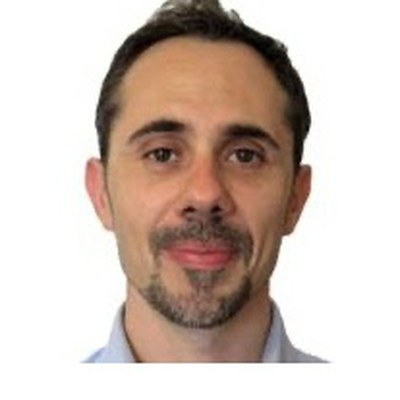
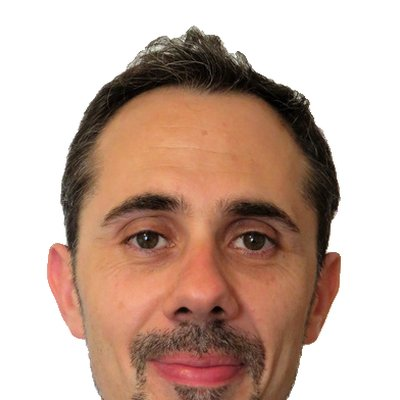
Sugestões do Carlos Fernandes e Miguel Varela: área do Júlio, todos os autores com membros CFP destacados, texto justificado, logótipos claros sem retângulo branco, fim do flash ao mudar de página (CSS embutido, animações de entrada só na 1.ª página, view transitions desligadas), novas fotos
Claude-Session: https://claude.ai/code/session_01E4GnwocsaV9oRSjcVAiZjn

diff --git a/src/assets/css/style.css b/src/assets/css/style.css
@@ -1,3 +1,5 @@
+/* no cross-page transition: it overlays a snapshot of the old page, which looks like a stretched image */
+@view-transition{navigation:none}
 /* Centro de Física do Porto — site styles */
 :root{
   --bg:#F4F6F9; --surface:#FFFFFF; --ink:#0E1726; --ink-2:#34425A; --muted:#5C6778; --line:#DDE3EB;
@@ -239,15 +241,15 @@ a.pcard:hover{border-color:var(--c);box-shadow:0 8px 24px -16px color-mix(in srg
 
 /* ---------- motion ---------- */
 @media (prefers-reduced-motion:no-preference){
-  .hero-copy>*{animation:rise .9s cubic-bezier(.2,.7,.2,1) both}
-  .hero-copy>*:nth-child(2){animation-delay:.08s}
-  .hero-copy>*:nth-child(3){animation-delay:.18s}
-  .hero-copy>*:nth-child(4){animation-delay:.28s}
-  .hero-copy>*:nth-child(5){animation-delay:.38s}
-  .page-band .head>*{animation:rise .7s cubic-bezier(.2,.7,.2,1) both}
-  .page-band .head>*:nth-child(2){animation-delay:.07s}
-  .page-band .head>*:nth-child(3){animation-delay:.14s}
-  .page-band .art,.profile-band .av{animation:fadeScale 1.1s cubic-bezier(.2,.7,.2,1) both .1s}
+  html:not(.seen) .hero-copy>*{animation:rise .9s cubic-bezier(.2,.7,.2,1) both}
+  html:not(.seen) .hero-copy>*:nth-child(2){animation-delay:.08s}
+  html:not(.seen) .hero-copy>*:nth-child(3){animation-delay:.18s}
+  html:not(.seen) .hero-copy>*:nth-child(4){animation-delay:.28s}
+  html:not(.seen) .hero-copy>*:nth-child(5){animation-delay:.38s}
+  html:not(.seen) .page-band .head>*{animation:rise .7s cubic-bezier(.2,.7,.2,1) both}
+  html:not(.seen) .page-band .head>*:nth-child(2){animation-delay:.07s}
+  html:not(.seen) .page-band .head>*:nth-child(3){animation-delay:.14s}
+  html:not(.seen) .page-band .art,html:not(.seen) .profile-band .av{animation:fadeScale 1.1s cubic-bezier(.2,.7,.2,1) both .1s}
   .reveal{opacity:0;transform:translateY(28px);transition:opacity .8s cubic-bezier(.2,.7,.2,1) var(--d,0s),transform .8s cubic-bezier(.2,.7,.2,1) var(--d,0s)}
   .reveal.in{opacity:1;transform:none}
   .area .art{transition:transform 1.2s cubic-bezier(.2,.7,.2,1)}
@@ -343,15 +345,14 @@ a.pcard:hover{border-color:var(--c);box-shadow:0 8px 24px -16px color-mix(in srg
 .site-footer .funding{display:block;margin-top:36px;padding-top:24px;border-top:1px solid rgba(255,255,255,.12)}
 .funding-row{display:flex;align-items:center;gap:20px;flex-wrap:wrap}
 .funding-row p{margin:0;max-width:60ch}
-.logo-chip{display:inline-flex;align-items:center;background:#fff;border-radius:6px;padding:8px 14px;min-height:56px}
+.logo-chip{display:inline-flex;align-items:center;min-height:56px;padding:6px 0}
 .logo-chip img{height:40px;width:auto;display:block}
-.site-footer .logo-chip .logo-text{color:#132033;font:600 13px var(--sans)}
+.site-footer .logo-chip .logo-text{color:inherit;font:600 14px var(--sans);border:1px solid currentColor;border-radius:6px;padding:10px 14px;opacity:.85}
 .site-footer a.logo-chip:hover{text-decoration:none}
 
 /* ---------- logos, about ---------- */
-.brand.has-logo{background:#fff;border-radius:6px;padding:6px 10px}
 .brand-logo{height:36px;width:auto;max-width:100%}
-.site-footer .funding-row{gap:14px}
+.site-footer .funding-row{gap:28px}
 .funding-text{margin:14px 0 0;max-width:70ch}
 .about{display:grid;grid-template-columns:minmax(0,1.1fr) minmax(0,1fr);gap:48px;align-items:center}
 .about .prose p{font-size:18px;line-height:1.6;color:var(--ink-2);margin:12px 0 0}
@@ -359,9 +360,9 @@ a.pcard:hover{border-color:var(--c);box-shadow:0 8px 24px -16px color-mix(in srg
 .partners{display:grid;gap:14px;margin-top:24px}
 .partner{display:grid;grid-template-columns:150px minmax(0,1fr);gap:18px;align-items:center;padding:16px;border:1px solid var(--line);border-radius:var(--radius);background:var(--surface);text-decoration:none;color:var(--ink-2);font-size:14.5px;line-height:1.5}
 .partner:hover{border-color:var(--fcup-deep)}
-.partner-logo{display:flex;align-items:center;justify-content:center;background:#fff;border-radius:6px;min-height:56px;padding:8px}
+.partner-logo{display:flex;align-items:center;justify-content:center;min-height:56px;padding:8px}
 .partner-logo img{max-height:44px;width:auto}
-.partner-logo b{color:#132033;font:700 20px var(--sans);letter-spacing:.02em}
+.partner-logo b{color:var(--ink);font:700 20px var(--sans);letter-spacing:.02em}
 .about-logo{margin:0;background:#fff;border-radius:var(--radius);padding:18px;border:1px solid var(--line)}
 .about-logo img{display:block;width:100%;height:auto}
 @media (max-width:900px){.about{grid-template-columns:1fr;gap:28px}.about-logo{order:-1;max-width:520px}}
@@ -371,3 +372,15 @@ a.pcard:hover{border-color:var(--c);box-shadow:0 8px 24px -16px color-mix(in srg
   .minor-areas .minor:not(.noart){grid-template-columns:1fr;align-content:start;gap:18px}
   .minor-areas .minor .mini-art{width:150px}
 }
+
+/* ---------- justified text (descriptions and bios) ---------- */
+.prose p,.area-body>p,.minor p,.topics-grid p,.partner-text,.page-band .lede{text-align:justify;hyphens:auto;-webkit-hyphens:auto}
+
+/* ---------- authors: CFP members highlighted ---------- */
+.pubs .cfp-author{font-weight:700;color:var(--fcup-deep);text-decoration:none}
+.pubs a.cfp-author:hover{text-decoration:underline}
+.pubs details.au{font-size:14px;color:var(--ink-2)}
+.pubs details.au summary{cursor:pointer;list-style:none}
+.pubs details.au summary::-webkit-details-marker{display:none}
+.pubs details.au[open] summary{display:none}
+.pubs .more-au{color:var(--fcup-deep);white-space:nowrap}

diff --git a/eleventy.config.js b/eleventy.config.js
@@ -76,11 +76,17 @@ export default async function (eleventyConfig) {
 
   // Full list of CFP-affiliated works from OpenAlex (empty if it could not be fetched)
   const { list: cfpWorks } = await loadCfpPublications(people, site.publications);
-  const memberOrcids = new Set(people.filter((p) => p.orcid).map((p) => p.orcid));
+  // Authors: full list, CFP members highlighted and linked to their profile.
+  // Very long lists (collaborations) show the first authors plus the CFP members, with the rest behind "show all".
+  const memberByOrcid = new Map(people.filter((p) => p.orcid).map((p) => [p.orcid, p]));
   for (const w of cfpWorks) {
-    // Long author lists: first 6 authors, plus any CFP member further down the list
-    const all = w.authors.map((a, i) => ({ name: a.name, member: memberOrcids.has(a.orcid), i }));
-    const shown = all.length > 8 ? all.filter((a) => a.i < 6 || a.member) : all;
+    const all = w.authors.map((a, i) => {
+      const m = memberByOrcid.get(a.orcid);
+      return { name: a.name, member: !!m, slug: m && !m.pending ? m.slug : "", i };
+    });
+    w.authorsAll = all;
+    w.longList = all.length > 25;
+    const shown = w.longList ? all.filter((a) => a.i < 10 || a.member) : all;
     w.authorsShort = shown.map((a, k) => ({ ...a, gap: k > 0 && a.i !== shown[k - 1].i + 1 }));
     w.moreAuthors = all.length - shown.length;
   }
@@ -91,7 +97,7 @@ export default async function (eleventyConfig) {
   // cfp (wordmark, header), cfp-white (for dark backgrounds), cfp-icon (browser tab),
   // cfp-full (full logo), cf-um-up, lapmet, fct / fct-white
   const logos = {};
-  for (const name of ["cfp", "cfp-white", "cfp-icon", "cfp-full", "cf-um-up", "lapmet", "fct", "fct-white"]) {
+  for (const name of ["cfp", "cfp-white", "cfp-icon", "cfp-full", "cf-um-up", "cf-um-up-white", "lapmet", "lapmet-white", "fct", "fct-white"]) {
     for (const ext of ["svg", "png", "webp", "jpg", "jpeg"]) {
       if (fs.existsSync(path.join("src", "assets", "logos", `${name}.${ext}`))) { logos[name] = `/assets/logos/${name}.${ext}`; break; }
     }
@@ -125,6 +131,9 @@ export default async function (eleventyConfig) {
   eleventyConfig.addFilter("area", (id) => areas.find((a) => a.id === id) || { id, name: id, color: "muted" });
   eleventyConfig.addFilter("slugify2", slugify);
   eleventyConfig.addFilter("map", (list, key) => (list || []).map((x) => x[key]));
+  // Stylesheets are inlined in every page, so a new page paints with its final look straight away
+  eleventyConfig.addFilter("inlineCss", (name) => fs.readFileSync(path.join("src", "assets", "css", name), "utf8"));
+  eleventyConfig.addWatchTarget("src/assets/css/");
   const md = markdownIt({ html: true, linkify: true });
   // Markdown text from the YAML files; external links open in a new tab
   eleventyConfig.addFilter("md", (s) => md.render(s || "").replace(/<a href="http/g, '<a target="_blank" rel="noopener" href="http'));

diff --git a/src/assets/js/motion.js b/src/assets/js/motion.js
@@ -18,7 +18,8 @@
   } else els.forEach(el => el.classList.add("in"));
 
   // Count-up for the hero numbers (final value is already in the HTML)
-  document.querySelectorAll("[data-count-up]").forEach(el => {
+  // only on the first page of a visit, so numbers don't reset on every return to the home page
+  if (!document.documentElement.classList.contains("seen")) document.querySelectorAll("[data-count-up]").forEach(el => {
     const end = parseInt(el.textContent, 10); if (!end) return;
     const from = end > 1900 ? end - 40 : 0, t0 = performance.now(), dur = 1400;
     const step = now => { const k = Math.min(1, (now - t0) / dur), e = 1 - Math.pow(1 - k, 3);

diff --git a/README.md b/README.md
@@ -36,6 +36,7 @@ tools/import_form.py  importa respostas novas do Google Form
 - `cfp-icon.png` – ícone do separador do browser;
 - `cfp-full.jpg` – logótipo completo, na secção "About the centre" da página inicial;
 - `cf-um-up.png`, `lapmet.png`, `fct.png` – instituições no rodapé ("Affiliations & funding") e na secção "About"; se o ficheiro não existir, aparece o nome em texto (é o caso do LaPMET e da FCT por agora).
+Para fundos escuros (topo do tema escuro, rodapé, modo escuro do sistema) o site usa a versão `<nome>-white.png` quando existe (fundo transparente, letras claras): já há `cfp-white.png` e `cf-um-up-white.png`; para o LaPMET e a FCT, juntar `lapmet-white.png` e `fct-white.png`.
 Para trocar um logótipo basta substituir o ficheiro, mantendo o nome.
 
 **Texto "About the centre" e instituições** – em `content/site.yml`: `affiliation` (Markdown, com links `[texto](https://...)`), `partners` (nome, link, logótipo, frase) e `funding` (frase e referência do financiamento FCT).
